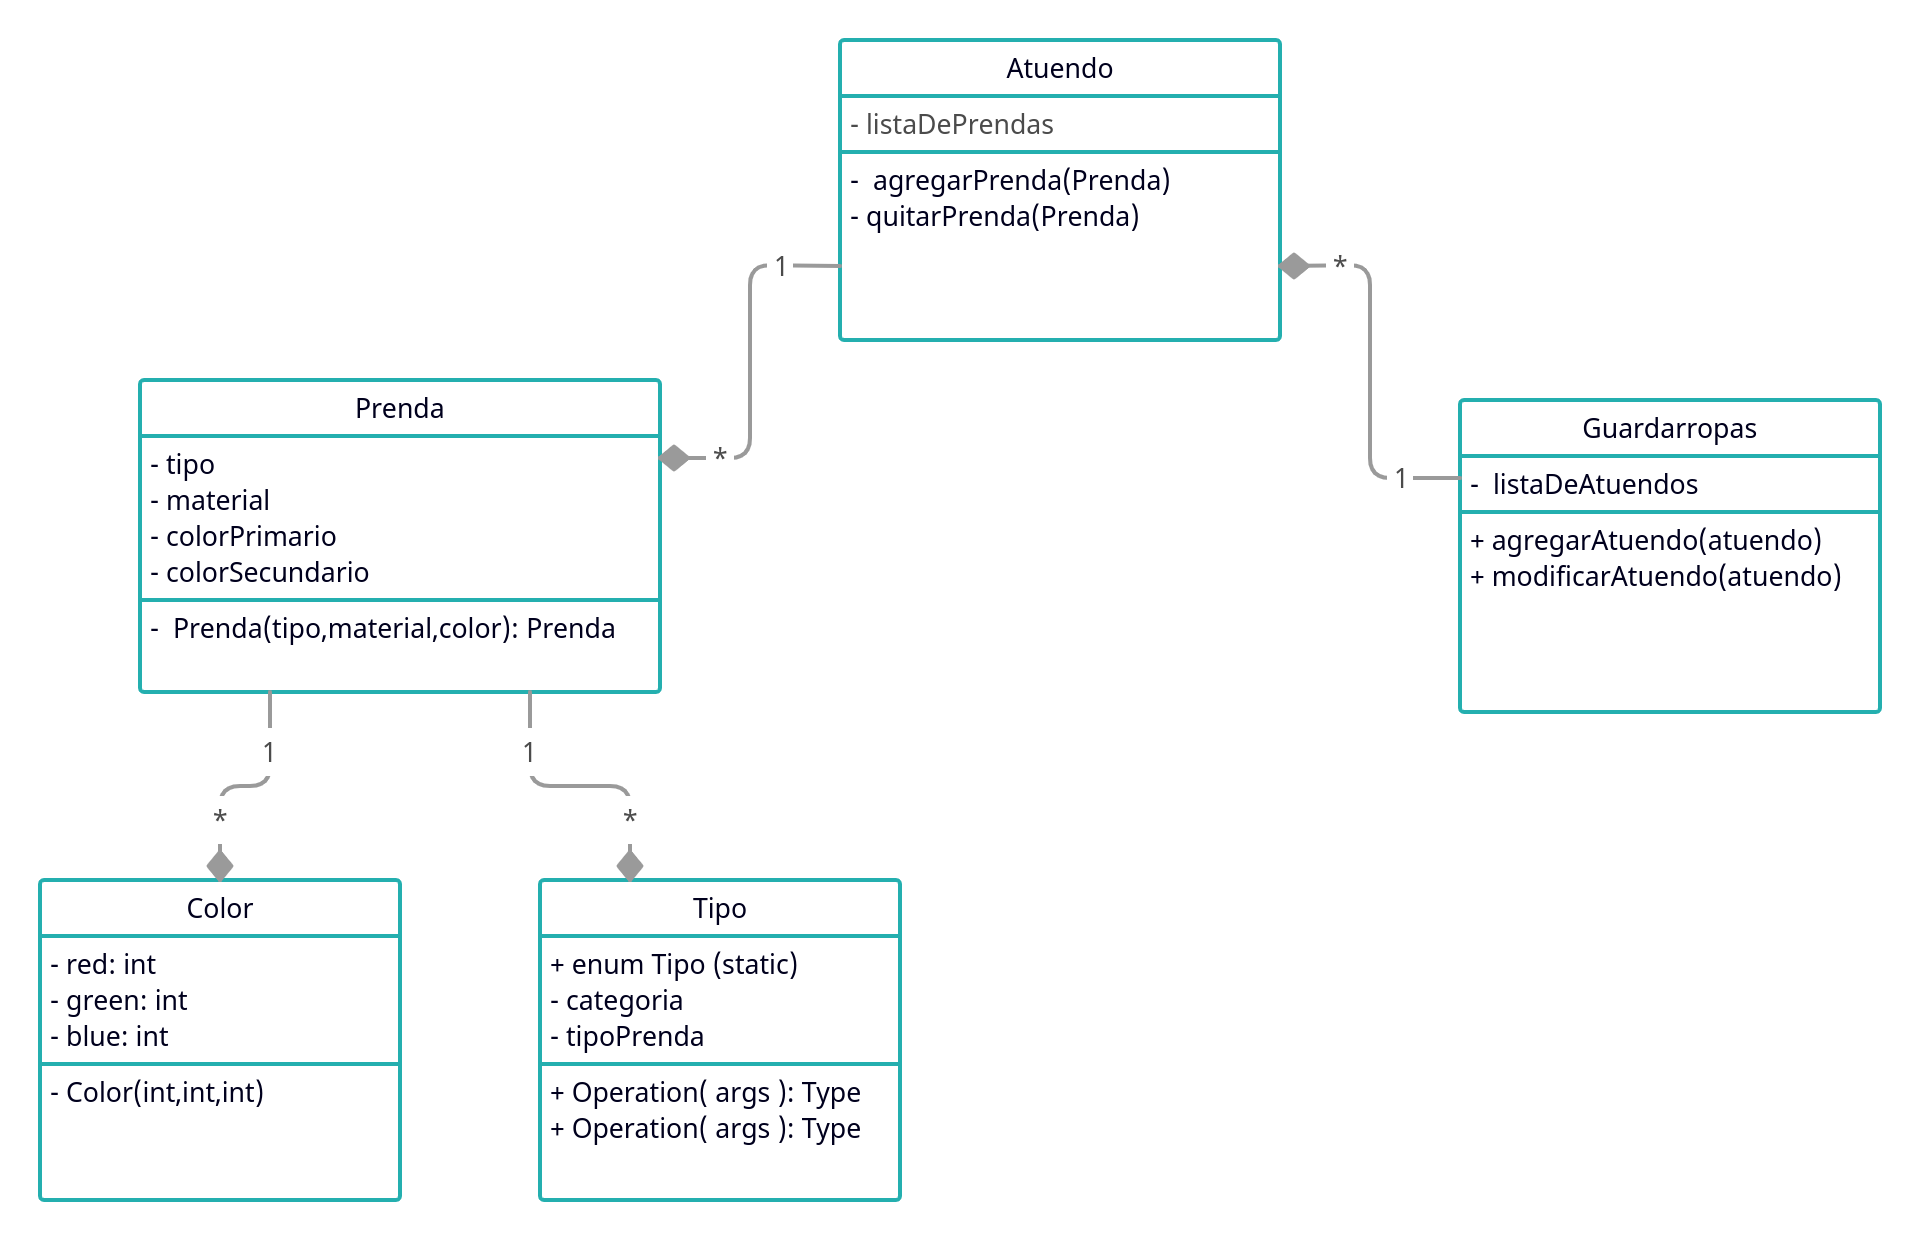
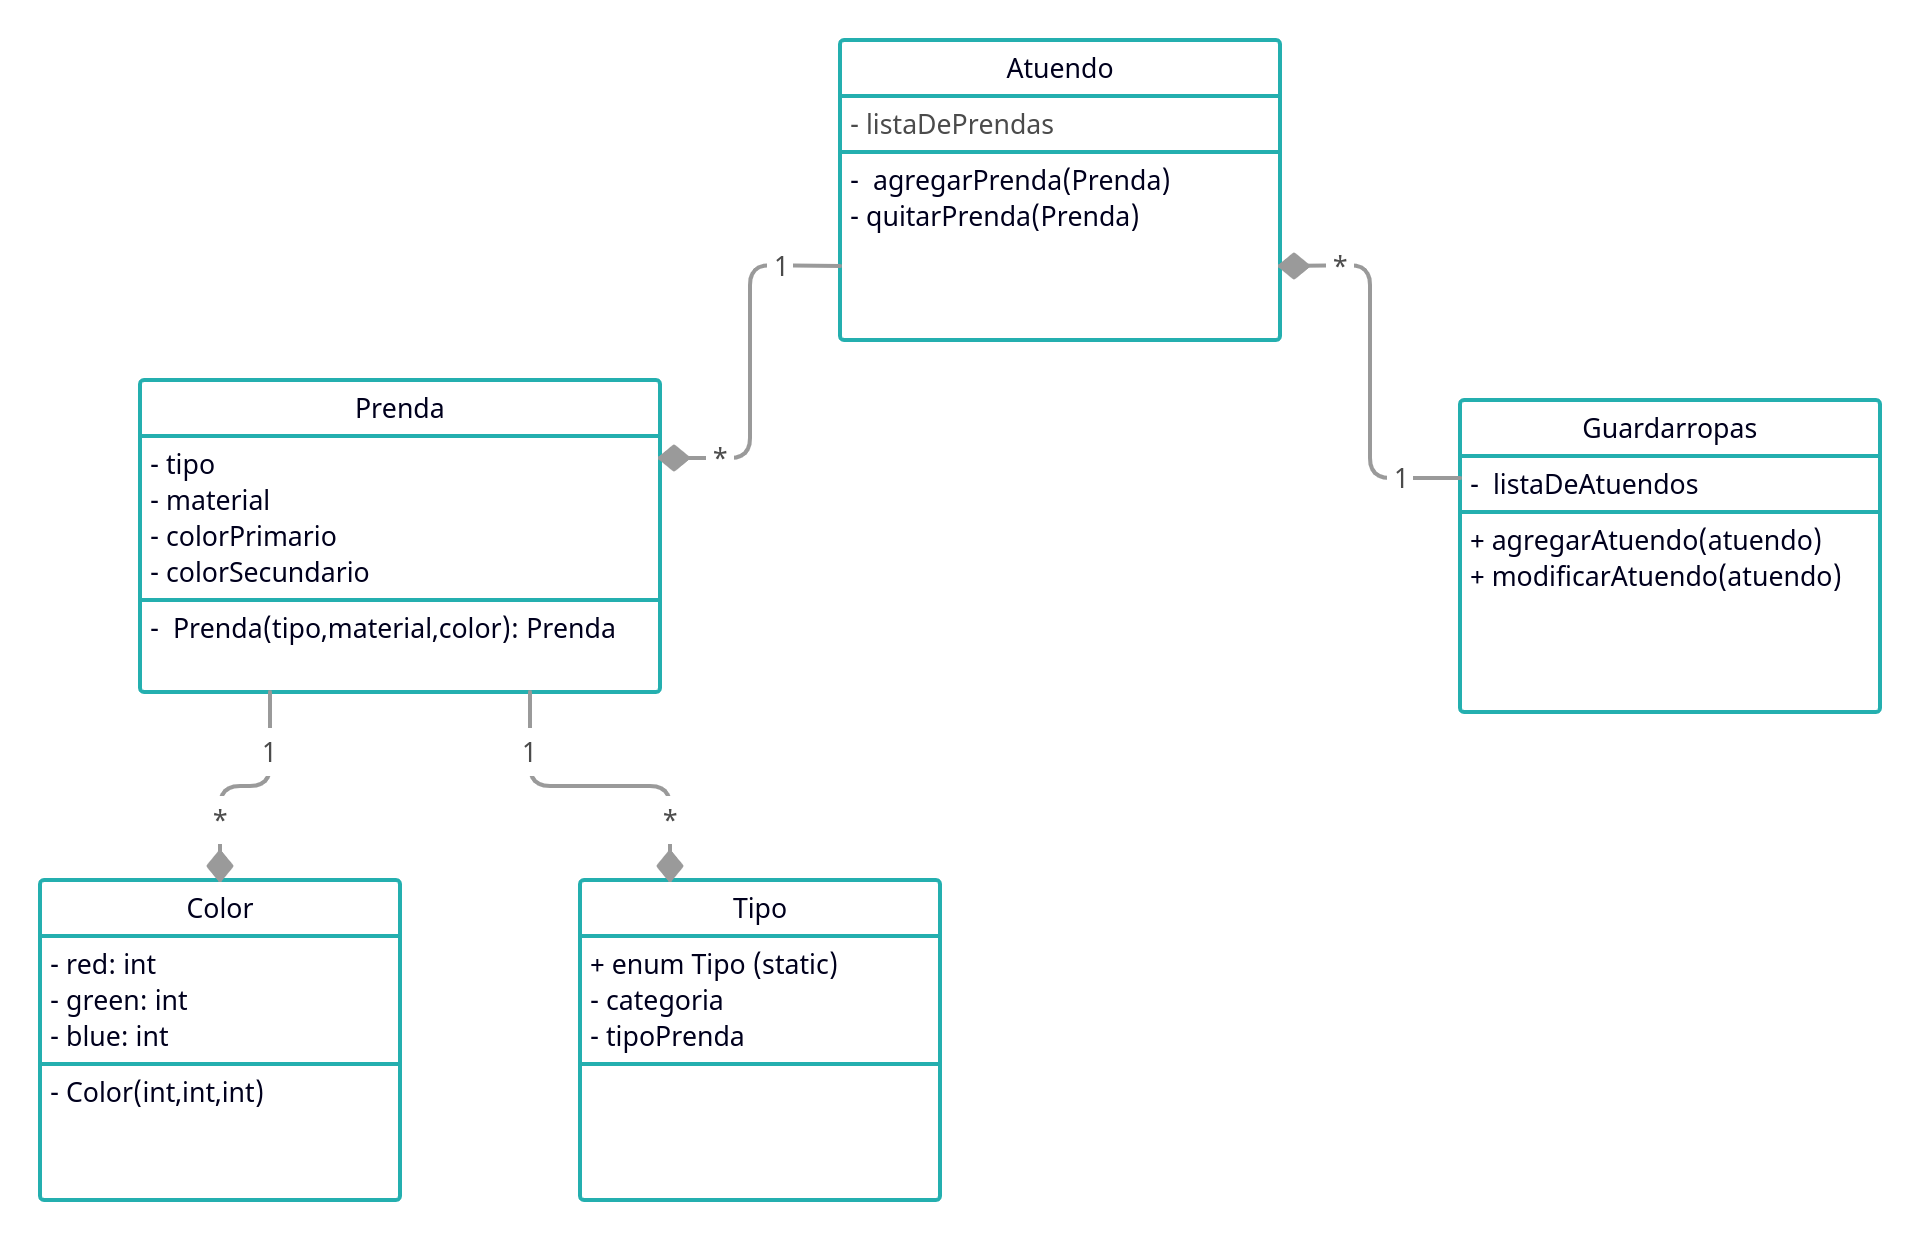
Correccion diagrama de clases

diff --git a/qmp1/src/main/java/com/qmp1/ejercicio/Tipo.java b/qmp1/src/main/java/com/qmp1/ejercicio/Tipo.java
@@ -2,9 +2,9 @@ package com.qmp1.ejercicio;
 
 public class Tipo {
 
-    public enum TipoPrenda { ZAPATOS, CAMISA_MANGAS_CORTAS, CAMISA_MANGAS_LARGAS, PANTALON }
+    public static enum TipoPrenda { ZAPATOS, CAMISA_MANGAS_CORTAS, CAMISA_MANGAS_LARGAS, PANTALON }
 
-    public enum Categoria{ PARTE_SUPERIOR, CALZADO, PARTE_INFERIOR, ACCESORIOS }
+    public static enum Categoria{ PARTE_SUPERIOR, CALZADO, PARTE_INFERIOR, ACCESORIOS }
 
     private TipoPrenda tipoPrenda;
     private Categoria categoria;
